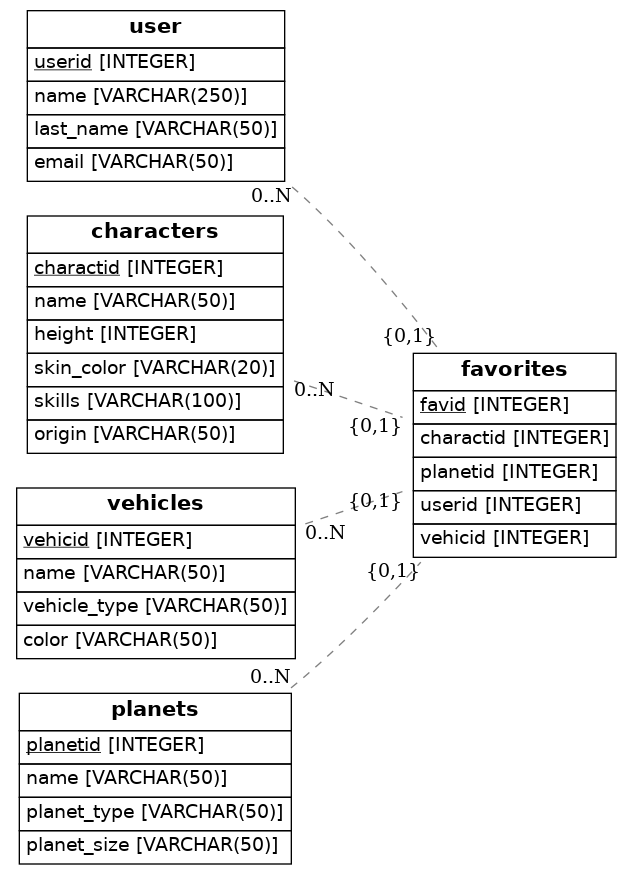
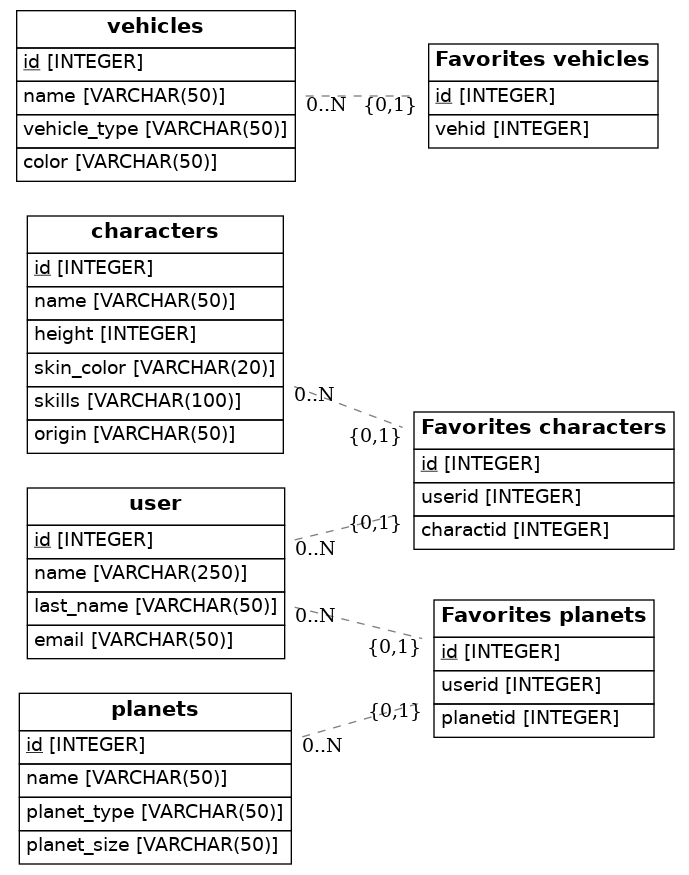
done

Changed region(s): [[0.0, 0.0, 0.9921, 0.9874]]

diff --git a/src/models.py b/src/models.py
@@ -12,14 +12,16 @@ class User(Base):
     __tablename__ = 'user'
     # Here we define columns for the table person
     # Notice that each column is also a normal Python instance attribute.
-    userid = Column(Integer, primary_key=True)
+    id = Column(Integer, primary_key=True)
     name = Column(String(250), nullable=False)
     last_name = Column(String(50), nullable=False)
     email= Column(String(50),nullable=False)
+    
+
 
 class Characters(Base):
     __tablename__ = 'characters'
-    charactid = Column(Integer, primary_key=True)
+    id = Column(Integer, primary_key=True)
     name = Column(String(50),nullable=False)
     height = Column(Integer, nullable=True)
     skin_color = Column(String(20), nullable=True)
@@ -29,7 +31,7 @@ class Characters(Base):
  
 class Vehicles(Base):
     __tablename__ = 'vehicles'
-    vehicid = Column(Integer, primary_key=True)
+    id = Column(Integer, primary_key=True)
     name = Column(String(50),nullable=False)
     vehicle_type = Column(String(50), nullable=False)
     color = Column(String(50), nullable=True)
@@ -37,25 +39,39 @@ class Vehicles(Base):
 
 class Planets(Base):
     __tablename__ = 'planets'
-    planetid = Column(Integer, primary_key=True)
+    id = Column(Integer, primary_key=True)
     name = Column(String(50),nullable=False)
     planet_type = Column(String(50), nullable=False)
     planet_size = Column(String(50), nullable=True)
 
 
-class Favorites(Base):
-    __tablename__ = 'favorites'
-    favid = Column(Integer, primary_key=True)
-    charactid = Column(Integer,ForeignKey('characters.charactid'))
-    planetid = Column(Integer,ForeignKey('planets.planetid'))
-    userid = Column(Integer,ForeignKey('user.userid'))
-    vehicid = Column(Integer,ForeignKey('vehicles.vehicid'))
-    characters = relationship(Characters)
-    planets = relationship(Planets)
+class FavoritesCharact(Base):
+    __tablename__ = 'Favorites characters'
+    id = Column(Integer, primary_key=True)
+    userid = Column(Integer,ForeignKey('user.id'))
     user = relationship(User)
-    vehicles = relationship(Vehicles)
+    charactid = Column(Integer,ForeignKey('characters.id'))
+    character = relationship(Characters)
 
-    
+
+
+class FavoritesPlanets(Base):
+    __tablename__ = 'Favorites planets'
+    id = Column(Integer, primary_key=True)
+    userid = Column(Integer,ForeignKey('user.id'))
+    user = relationship(User)
+    planetid = Column(Integer,ForeignKey('planets.id'))
+    planet = relationship(Characters)
+
+class FavoritesVeh(Base):
+    __tablename__= 'Favorites vehicles'
+    id = Column(Integer, primary_key=True)
+    vehid = Column(Integer,ForeignKey('vehicles.id'))
+    vehicle = relationship(Vehicles)
+
+
+
+
 
 
     def to_dict(self):
@@ -64,3 +80,63 @@ class Favorites(Base):
 render_er(Base, 'diagram.png')
 
 
+
+
+# ANOTHER WAY TO DO IT 
+
+# Base = declarative_base()
+
+# class User(Base):
+#     __tablename__ = 'user'
+#     # Here we define columns for the table person
+#     # Notice that each column is also a normal Python instance attribute.
+#     userid = Column(Integer, primary_key=True)
+#     name = Column(String(250), nullable=False)
+#     last_name = Column(String(50), nullable=False)
+#     email= Column(String(50),nullable=False)
+
+# class Characters(Base):
+#     __tablename__ = 'characters'
+#     charactid = Column(Integer, primary_key=True)
+#     name = Column(String(50),nullable=False)
+#     height = Column(Integer, nullable=True)
+#     skin_color = Column(String(20), nullable=True)
+#     skills = Column(String(100), nullable=True)
+#     origin = Column(String(50), nullable=False)
+
+ 
+# class Vehicles(Base):
+#     __tablename__ = 'vehicles'
+#     vehicid = Column(Integer, primary_key=True)
+#     name = Column(String(50),nullable=False)
+#     vehicle_type = Column(String(50), nullable=False)
+#     color = Column(String(50), nullable=True)
+
+
+# class Planets(Base):
+#     __tablename__ = 'planets'
+#     planetid = Column(Integer, primary_key=True)
+#     name = Column(String(50),nullable=False)
+#     planet_type = Column(String(50), nullable=False)
+#     planet_size = Column(String(50), nullable=True)
+
+
+# class Favorites(Base):
+#     __tablename__ = 'favorites'
+#     favid = Column(Integer, primary_key=True)
+#     charactid = Column(Integer,ForeignKey('characters.charactid'))
+#     planetid = Column(Integer,ForeignKey('planets.planetid'))
+#     userid = Column(Integer,ForeignKey('user.userid'))
+#     vehicid = Column(Integer,ForeignKey('vehicles.vehicid'))
+#     characters = relationship(Characters)
+#     planets = relationship(Planets)
+#     user = relationship(User)
+#     vehicles = relationship(Vehicles)
+
+    
+
+
+#     def to_dict(self):
+#         return {}
+# ## Draw from SQLAlchemy base
+# render_er(Base, 'diagram.png')
